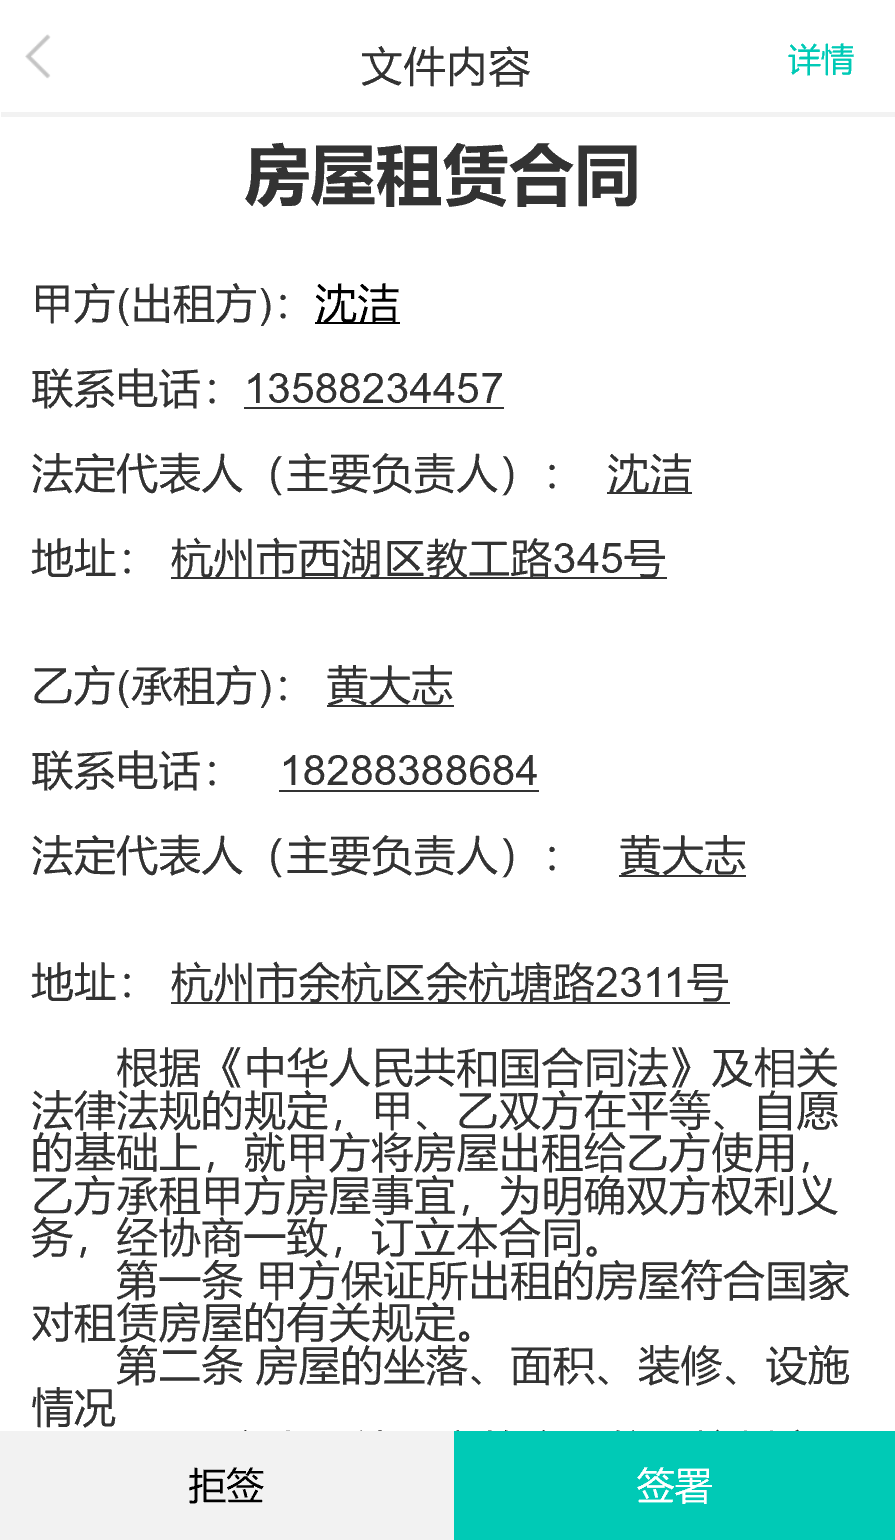
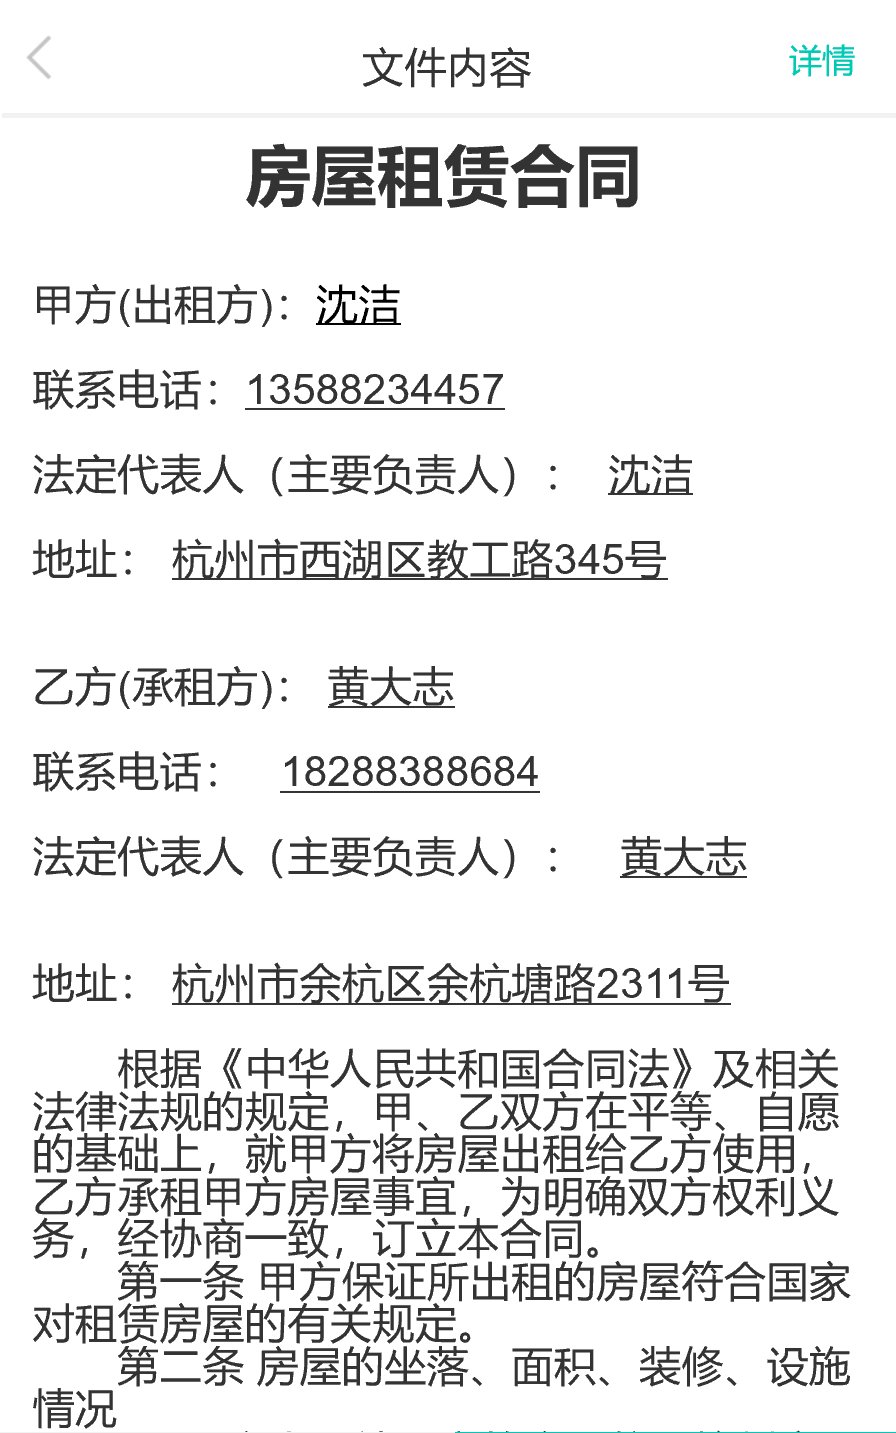
wa

diff --git a/src/app/app.module.ts b/src/app/app.module.ts
@@ -29,6 +29,9 @@ import { ContractManagementYouwriting2Page } from '../pages/contract-management-
 import { ContractManagementYouwriting2DatailPage } from '../pages/contract-management-youwriting2-datail/contract-management-youwriting2-datail';
 import { ContractManagementIwritingPage } from '../pages/contract-management-iwriting/contract-management-iwriting';
 import { ContractManagementIwriting2Page } from '../pages/contract-management-iwriting2/contract-management-iwriting2';
+import { ContractManagementIwriting2DetailPage } from '../pages/contract-management-iwriting2-detail/contract-management-iwriting2-detail';
+import { ContractManagementIwriting2RefusePage } from '../pages/contract-management-iwriting2-refuse/contract-management-iwriting2-refuse';
+import { ContractManagementIwriting2GoPage } from '../pages/contract-management-iwriting2-go/contract-management-iwriting2-go';
 
 import {BackListenerDirective} from "../directives/back-listener/back-listener"
 
@@ -64,6 +67,9 @@ import {SplashScreen} from '@ionic-native/splash-screen';
     ContractManagementYouwriting2DatailPage,
     ContractManagementIwritingPage,
     ContractManagementIwriting2Page,
+    ContractManagementIwriting2DetailPage,
+    ContractManagementIwriting2RefusePage,
+    ContractManagementIwriting2GoPage,
   ],
   imports: [
     BrowserModule,
@@ -101,6 +107,9 @@ import {SplashScreen} from '@ionic-native/splash-screen';
     ContractManagementYouwriting2DatailPage,
     ContractManagementIwritingPage,
     ContractManagementIwriting2Page,
+    ContractManagementIwriting2DetailPage,
+    ContractManagementIwriting2RefusePage,
+    ContractManagementIwriting2GoPage,
   ],
   providers: [
     StatusBar,

diff --git a/src/pages/contract-management-iwriting2/contract-management-iwriting2.ts b/src/pages/contract-management-iwriting2/contract-management-iwriting2.ts
@@ -1,5 +1,8 @@
 import { Component } from '@angular/core';
 import { IonicPage, NavController, NavParams } from 'ionic-angular';
+import { ContractManagementIwriting2DetailPage } from '../contract-management-iwriting2-detail/contract-management-iwriting2-detail';
+import { ContractManagementIwriting2RefusePage } from '../contract-management-iwriting2-refuse/contract-management-iwriting2-refuse';
+import { ContractManagementIwriting2GoPage } from '../contract-management-iwriting2-go/contract-management-iwriting2-go';
 
 /**
  * Generated class for the ContractManagementIwriting2Page page.
@@ -17,7 +20,18 @@ export class ContractManagementIwriting2Page {
 
   constructor(public navCtrl: NavController, public navParams: NavParams) {
   }
-
+  back() {
+    this.navCtrl.pop();
+  }
+  idetail() {
+    this.navCtrl.push(ContractManagementIwriting2DetailPage);
+  }
+  refuse() {
+    this.navCtrl.push(ContractManagementIwriting2RefusePage);
+  }
+  go() {
+    this.navCtrl.push(ContractManagementIwriting2GoPage);
+  }
   ionViewDidLoad() {
     console.log('ionViewDidLoad ContractManagementIwriting2Page');
   }

diff --git a/src/pages/contract-management-iwriting2/contract-management-iwriting2.html b/src/pages/contract-management-iwriting2/contract-management-iwriting2.html
@@ -8,13 +8,23 @@
   <div class="backgroundBox">
 
     <img class="background" src="assets/imgs/i2.png">
+    <img class="next2" src="assets/imgs/white.png">
 
     <ion-row class="back">
       <ion-col col-1 class="testBox" (click)="back()"></ion-col>
-      <ion-col col-2 class="testBox second" (click)="detail()"></ion-col>
+      <ion-col col-2 class="testBox second" (click)="idetail()"></ion-col>
 
     </ion-row>
-    <img class="next" src="assets/imgs/you21.png">
+    <div class="bottomBar">
+
+      <img class="backImg" src="assets/imgs/i22.png">
+      <ion-row class="back">
+        <ion-col col-6 class="testBox" (click)="refuse()"></ion-col>
+        <ion-col col-6 class="testBox" (click)="go()"></ion-col>
+
+      </ion-row>
+
+    </div>
   </div>
 
 

diff --git a/src/pages/contract-management-iwriting2-detail/contract-management-iwriting2-detail.ts b/src/pages/contract-management-iwriting2-detail/contract-management-iwriting2-detail.ts
@@ -1,0 +1,27 @@
+import { Component } from '@angular/core';
+import { IonicPage, NavController, NavParams } from 'ionic-angular';
+
+/**
+ * Generated class for the ContractManagementIwriting2DetailPage page.
+ *
+ * See https://ionicframework.com/docs/components/#navigation for more info on
+ * Ionic pages and navigation.
+ */
+
+@IonicPage()
+@Component({
+  selector: 'page-contract-management-iwriting2-detail',
+  templateUrl: 'contract-management-iwriting2-detail.html',
+})
+export class ContractManagementIwriting2DetailPage {
+
+  constructor(public navCtrl: NavController, public navParams: NavParams) {
+  }
+  back() {
+    this.navCtrl.pop();
+  }
+  ionViewDidLoad() {
+    console.log('ionViewDidLoad ContractManagementIwriting2DetailPage');
+  }
+
+}

diff --git a/src/pages/contract-management-iwriting2-refuse/contract-management-iwriting2-refuse.ts b/src/pages/contract-management-iwriting2-refuse/contract-management-iwriting2-refuse.ts
@@ -1,0 +1,27 @@
+import { Component } from '@angular/core';
+import { IonicPage, NavController, NavParams } from 'ionic-angular';
+
+/**
+ * Generated class for the ContractManagementIwriting2RefusePage page.
+ *
+ * See https://ionicframework.com/docs/components/#navigation for more info on
+ * Ionic pages and navigation.
+ */
+
+@IonicPage()
+@Component({
+  selector: 'page-contract-management-iwriting2-refuse',
+  templateUrl: 'contract-management-iwriting2-refuse.html',
+})
+export class ContractManagementIwriting2RefusePage {
+
+  constructor(public navCtrl: NavController, public navParams: NavParams) {
+  }
+  back() {
+    this.navCtrl.pop();
+  }
+  ionViewDidLoad() {
+    console.log('ionViewDidLoad ContractManagementIwriting2RefusePage');
+  }
+
+}

diff --git a/src/pages/contract-management-iwriting2-go/contract-management-iwriting2-go.ts b/src/pages/contract-management-iwriting2-go/contract-management-iwriting2-go.ts
@@ -1,0 +1,27 @@
+import { Component } from '@angular/core';
+import { IonicPage, NavController, NavParams } from 'ionic-angular';
+
+/**
+ * Generated class for the ContractManagementIwriting2GoPage page.
+ *
+ * See https://ionicframework.com/docs/components/#navigation for more info on
+ * Ionic pages and navigation.
+ */
+
+@IonicPage()
+@Component({
+  selector: 'page-contract-management-iwriting2-go',
+  templateUrl: 'contract-management-iwriting2-go.html',
+})
+export class ContractManagementIwriting2GoPage {
+
+  constructor(public navCtrl: NavController, public navParams: NavParams) {
+  }
+  back() {
+    this.navCtrl.pop();
+  }
+  ionViewDidLoad() {
+    console.log('ionViewDidLoad ContractManagementIwriting2GoPage');
+  }
+
+}

diff --git a/src/pages/contract-management-iwriting2-refuse/contract-management-iwriting2-refuse.html b/src/pages/contract-management-iwriting2-refuse/contract-management-iwriting2-refuse.html
@@ -1,0 +1,18 @@
+<!--
+  Generated template for the ContractManagementIwriting2RefusePage page.
+
+  See http://ionicframework.com/docs/components/#navigation for more info on
+  Ionic pages and navigation.
+-->
+<ion-content>
+  <div class="backgroundBox">
+
+    <img class="background" src="assets/imgs/refuse.png">
+
+    <ion-row class="back">
+      <ion-col col-1 class="testBox" (click)="back()"></ion-col>
+    </ion-row>
+  </div>
+
+</ion-content>
+

diff --git a/src/pages/contract-management-iwriting2-detail/contract-management-iwriting2-detail.html b/src/pages/contract-management-iwriting2-detail/contract-management-iwriting2-detail.html
@@ -1,0 +1,17 @@
+<!--
+  Generated template for the ContractManagementIwriting2DetailPage page.
+
+  See http://ionicframework.com/docs/components/#navigation for more info on
+  Ionic pages and navigation.
+-->
+<ion-content>
+  <div class="backgroundBox">
+
+    <img class="background" src="assets/imgs/idetail.png">
+
+    <ion-row class="back">
+      <ion-col col-1 class="testBox" (click)="back()"></ion-col>
+    </ion-row>
+  </div>
+
+</ion-content>

diff --git a/src/pages/contract-management-iwriting2-go/contract-management-iwriting2-go.html b/src/pages/contract-management-iwriting2-go/contract-management-iwriting2-go.html
@@ -1,0 +1,18 @@
+<!--
+  Generated template for the ContractManagementIwriting2GoPage page.
+
+  See http://ionicframework.com/docs/components/#navigation for more info on
+  Ionic pages and navigation.
+-->
+<ion-content>
+  <div class="backgroundBox">
+
+    <img class="background" src="assets/imgs/go.png">
+
+    <ion-row class="back">
+      <ion-col col-1 class="testBox" (click)="back()"></ion-col>
+    </ion-row>
+  </div>
+
+</ion-content>
+

diff --git a/src/pages/contract-management-iwriting2-detail/contract-management-iwriting2-detail.module.ts b/src/pages/contract-management-iwriting2-detail/contract-management-iwriting2-detail.module.ts
@@ -1,0 +1,13 @@
+import { NgModule } from '@angular/core';
+import { IonicPageModule } from 'ionic-angular';
+import { ContractManagementIwriting2DetailPage } from './contract-management-iwriting2-detail';
+
+@NgModule({
+  declarations: [
+    ContractManagementIwriting2DetailPage,
+  ],
+  imports: [
+    IonicPageModule.forChild(ContractManagementIwriting2DetailPage),
+  ],
+})
+export class ContractManagementIwriting2DetailPageModule {}

diff --git a/src/pages/contract-management-iwriting2-refuse/contract-management-iwriting2-refuse.module.ts b/src/pages/contract-management-iwriting2-refuse/contract-management-iwriting2-refuse.module.ts
@@ -1,0 +1,13 @@
+import { NgModule } from '@angular/core';
+import { IonicPageModule } from 'ionic-angular';
+import { ContractManagementIwriting2RefusePage } from './contract-management-iwriting2-refuse';
+
+@NgModule({
+  declarations: [
+    ContractManagementIwriting2RefusePage,
+  ],
+  imports: [
+    IonicPageModule.forChild(ContractManagementIwriting2RefusePage),
+  ],
+})
+export class ContractManagementIwriting2RefusePageModule {}

diff --git a/src/pages/contract-management-iwriting2-go/contract-management-iwriting2-go.module.ts b/src/pages/contract-management-iwriting2-go/contract-management-iwriting2-go.module.ts
@@ -1,0 +1,13 @@
+import { NgModule } from '@angular/core';
+import { IonicPageModule } from 'ionic-angular';
+import { ContractManagementIwriting2GoPage } from './contract-management-iwriting2-go';
+
+@NgModule({
+  declarations: [
+    ContractManagementIwriting2GoPage,
+  ],
+  imports: [
+    IonicPageModule.forChild(ContractManagementIwriting2GoPage),
+  ],
+})
+export class ContractManagementIwriting2GoPageModule {}
